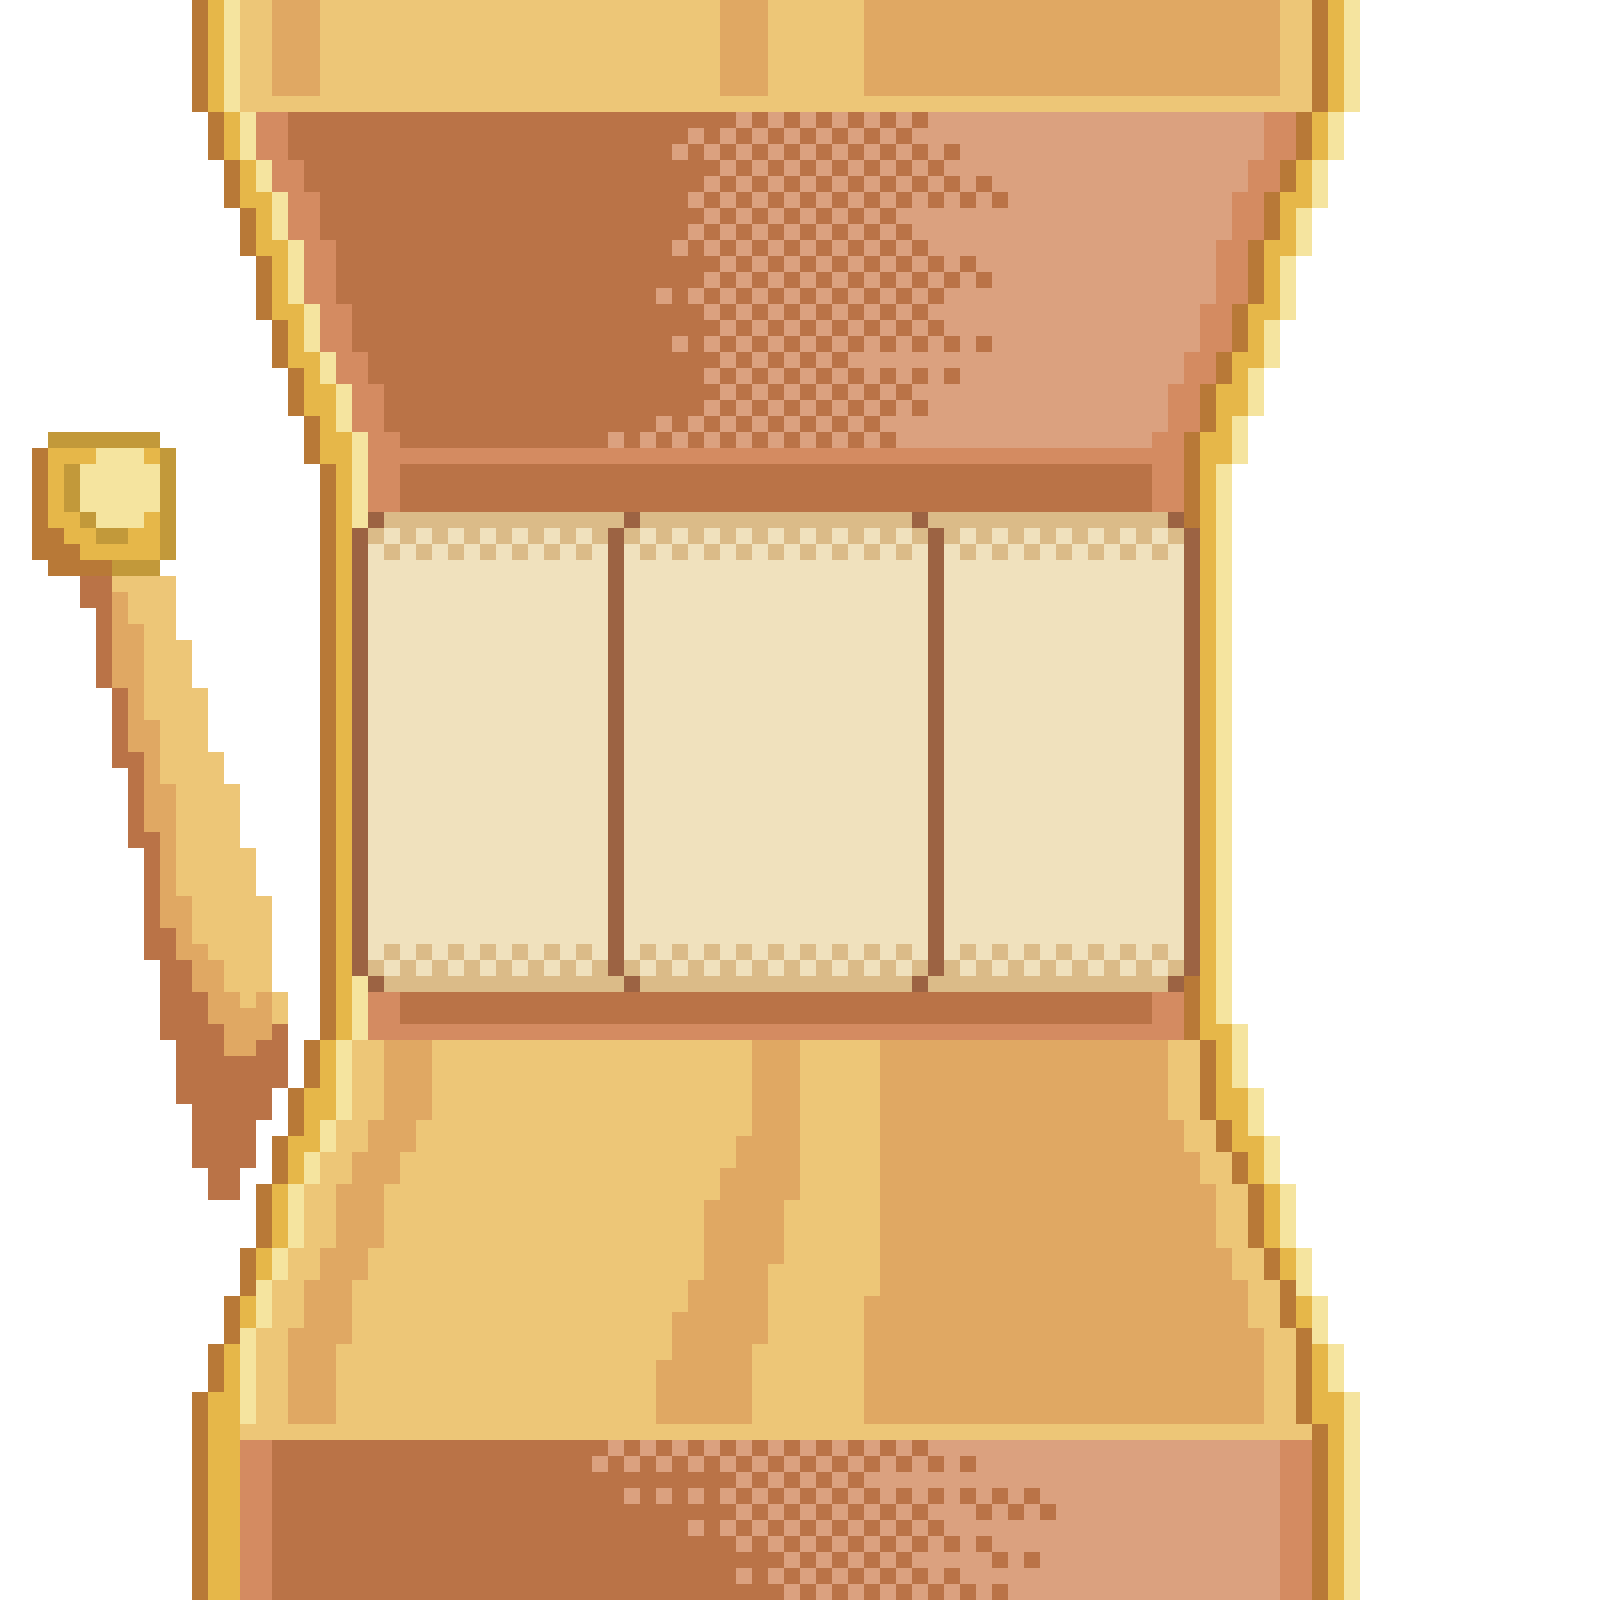
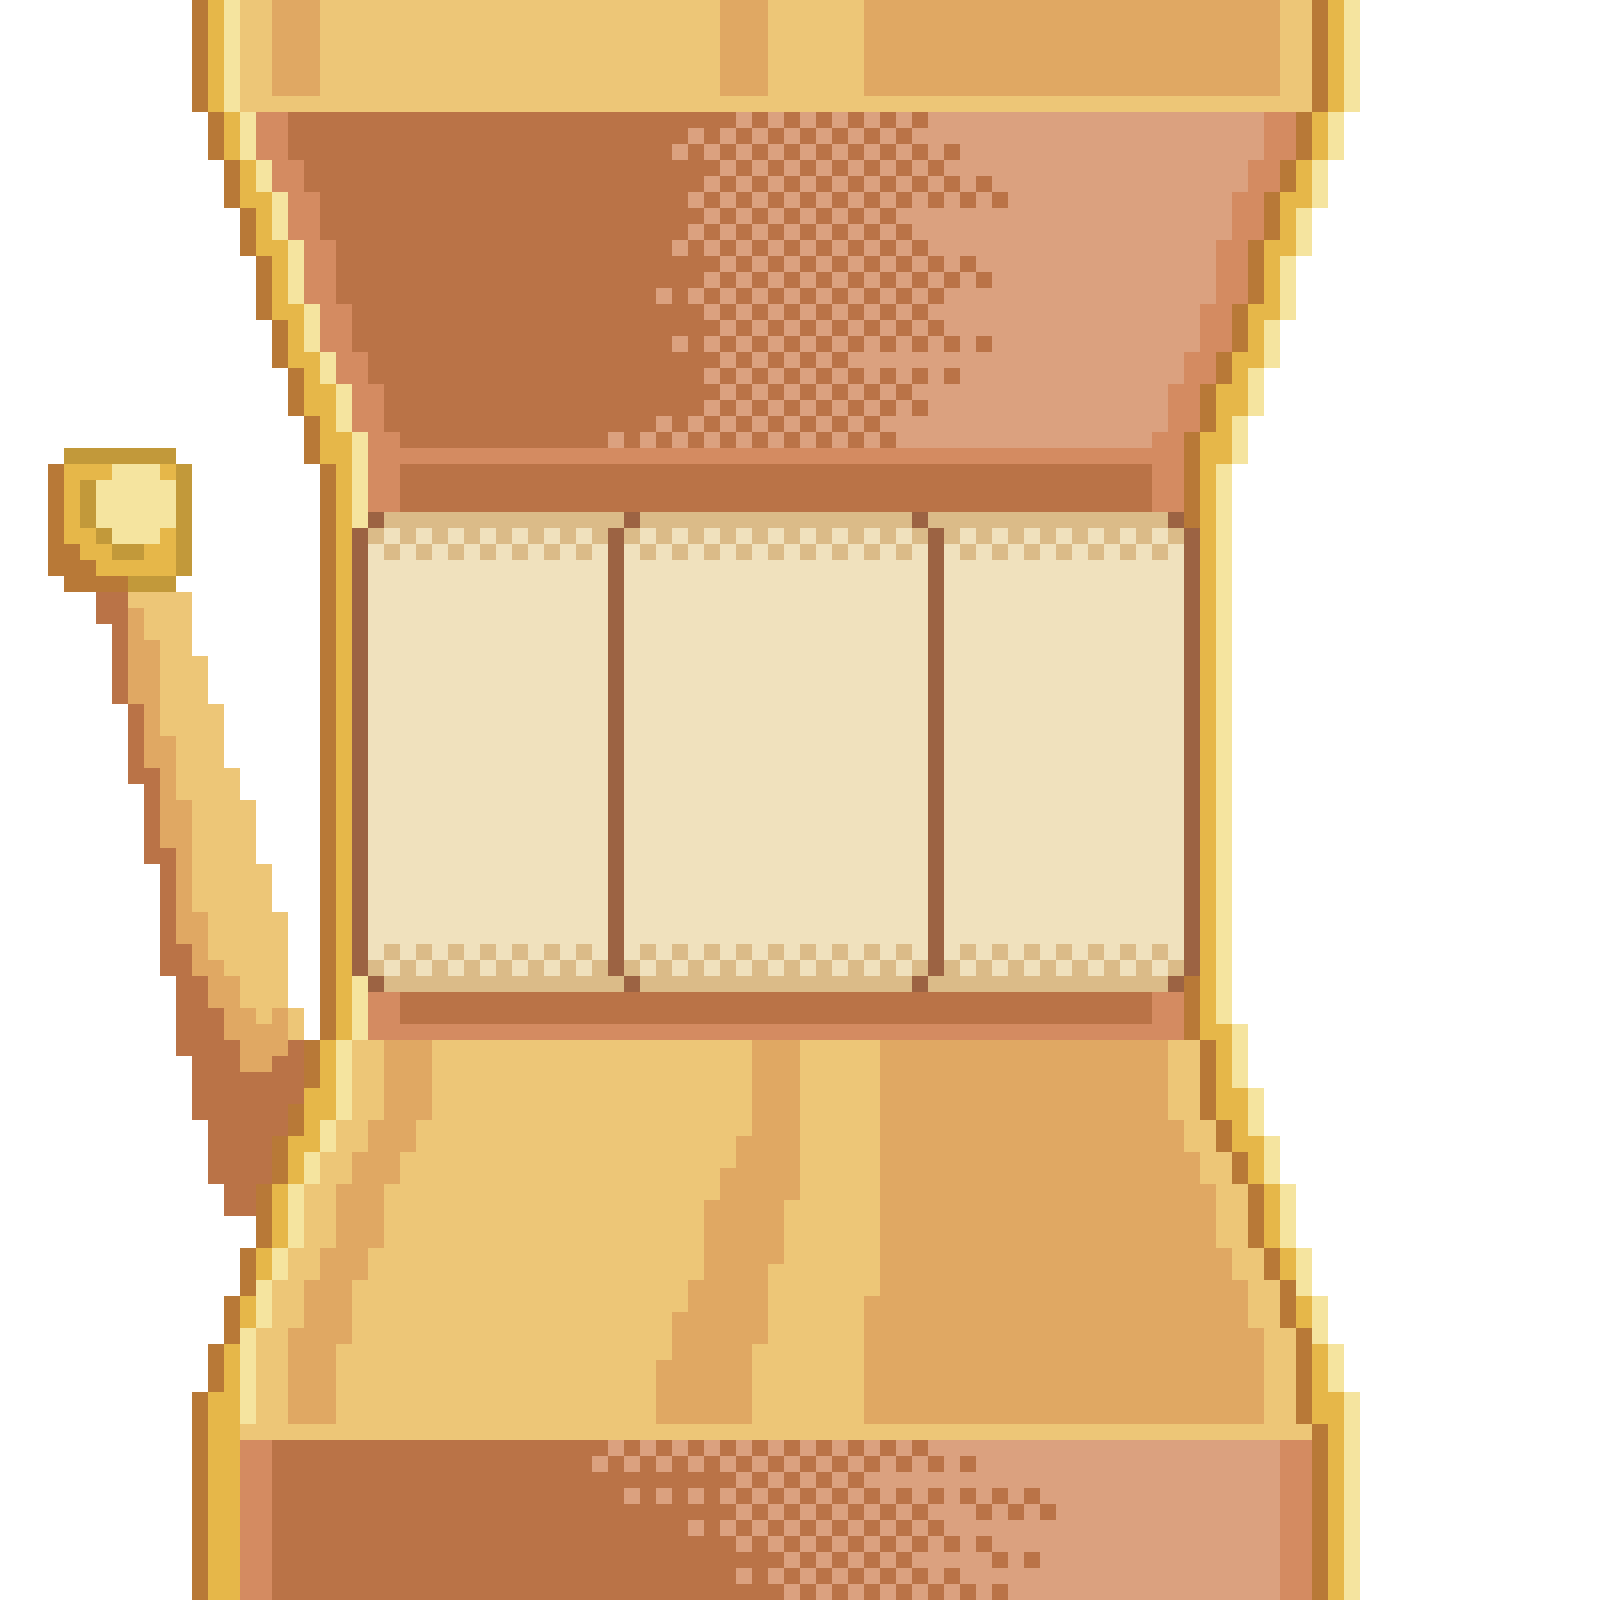
feezlegorp or dihrth

Changed region(s): [[0.0, 0.25, 0.1875, 0.7812]]

diff --git a/src/slots.py b/src/slots.py
@@ -37,14 +37,14 @@
 
 import pygame
 import random
-
+import time
 
 def spin_grid():
     symbols = ['c', 'w', 'l', 'a', 's']
     return [[random.choice(symbols) for _ in range(3)] for _ in range(3)]
 
 def symbol_multiplier(symbol):
-    return {'c':3, 'w':4, 'l':5, 'a':10, 's':20}.get(symbol, 0)
+    return {'c':1, 'w':2, 'l':5, 'a':10, 's':20}.get(symbol, 0)
 
 def get_payout(grid, bet):
     payout = 0
@@ -68,18 +68,17 @@ width, height = 1280, 1020
 screen = pygame.display.set_mode((width, height))
 pygame.display.set_caption("slot machine")
 
-font = pygame.font.SysFont(None, 60)
-small_font = pygame.font.SysFont(None, 30)
+font = pygame.font.Font(None, 30)
 
 
 bg = pygame.image.load("docs/background.png").convert()
 bg = pygame.transform.scale(bg, (width, height))
 
 
-cell_size = 90
-gap = 18
-grid_x = 165
-grid_y = 230
+cell_size = 80
+gap = 20
+grid_x = 190
+grid_y = 335
 
 
 symbols = ['c', 'w', 'l', 'a', 's']
@@ -95,7 +94,6 @@ money = 100
 grid = spin_grid()
 bet = 10
 min_bet = 1
-max_bet = money
 message = "press space to spin"
 
 
@@ -107,8 +105,8 @@ def draw():
         for c in range(3):
             symbol = grid[r][c]
 
-            x = grid_x + c * (cell_size + gap)
-            y = grid_y + r * (cell_size + gap)
+            x = (grid_x + c * (cell_size + gap)) * 2
+            y = (grid_y + r * (cell_size + gap))
 
             screen.blit(symbol_images[symbol], (x, y))
 
@@ -119,7 +117,7 @@ def draw():
     bet_text = font.render(f"bet: ${bet}", True, (255, 255, 255))
     screen.blit(bet_text, (10, 80))
 
-    msg_text = small_font.render(message, True, (255, 255, 255))
+    msg_text = font.render(message, True, (255, 255, 255))
     screen.blit(msg_text, (10, height - 40))
 
 
@@ -128,9 +126,13 @@ running = True
 clock = pygame.time.Clock()
 
 while running:
+    max_bet = money
     screen.fill((0, 0, 0))
     draw()
     pygame.display.flip()
+    time.sleep(0.5)
+    bg = pygame.image.load("docs/background.png").convert()
+    bg = pygame.transform.scale(bg, (width, height))
 
     for event in pygame.event.get():
         if event.type == pygame.QUIT:
@@ -143,6 +145,14 @@ while running:
             if event.key == pygame.K_UP:
                 if bet < max_bet and bet < money:
                     bet += 1
+            
+            if event.key == pygame.K_RIGHT:
+                if bet < max_bet and bet < money:
+                    bet += 10
+
+            if event.key == pygame.K_LEFT:
+                if bet > min_bet:
+                    bet -= 10
 
             if event.key == pygame.K_DOWN:
                 if bet > min_bet:
@@ -151,6 +161,8 @@ while running:
 
             if event.key == pygame.K_SPACE:
                 if money >= bet and bet > 0:
+                    bg = pygame.image.load("docs/background(2).png").convert()
+                    bg = pygame.transform.scale(bg, (width, height))
                     money -= bet
                     grid = spin_grid()
                     payout = get_payout(grid, bet)
